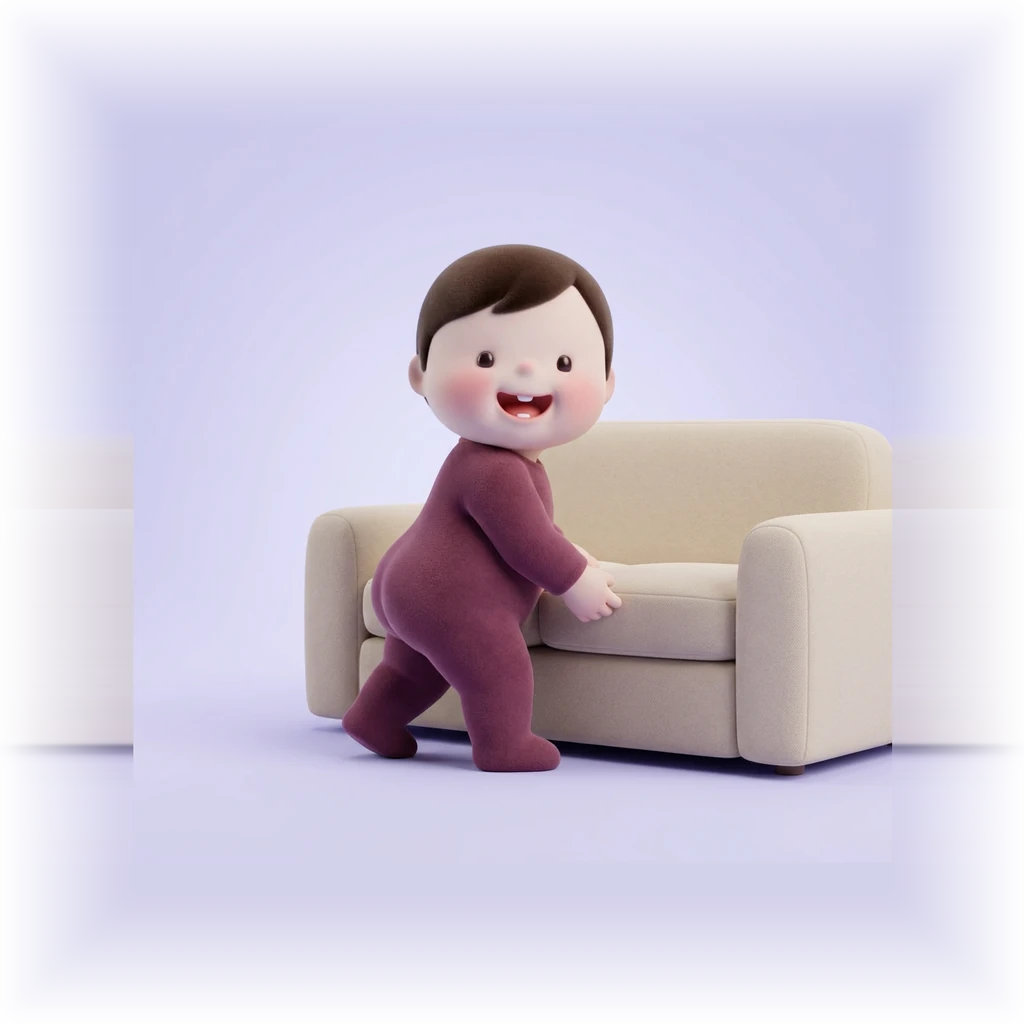
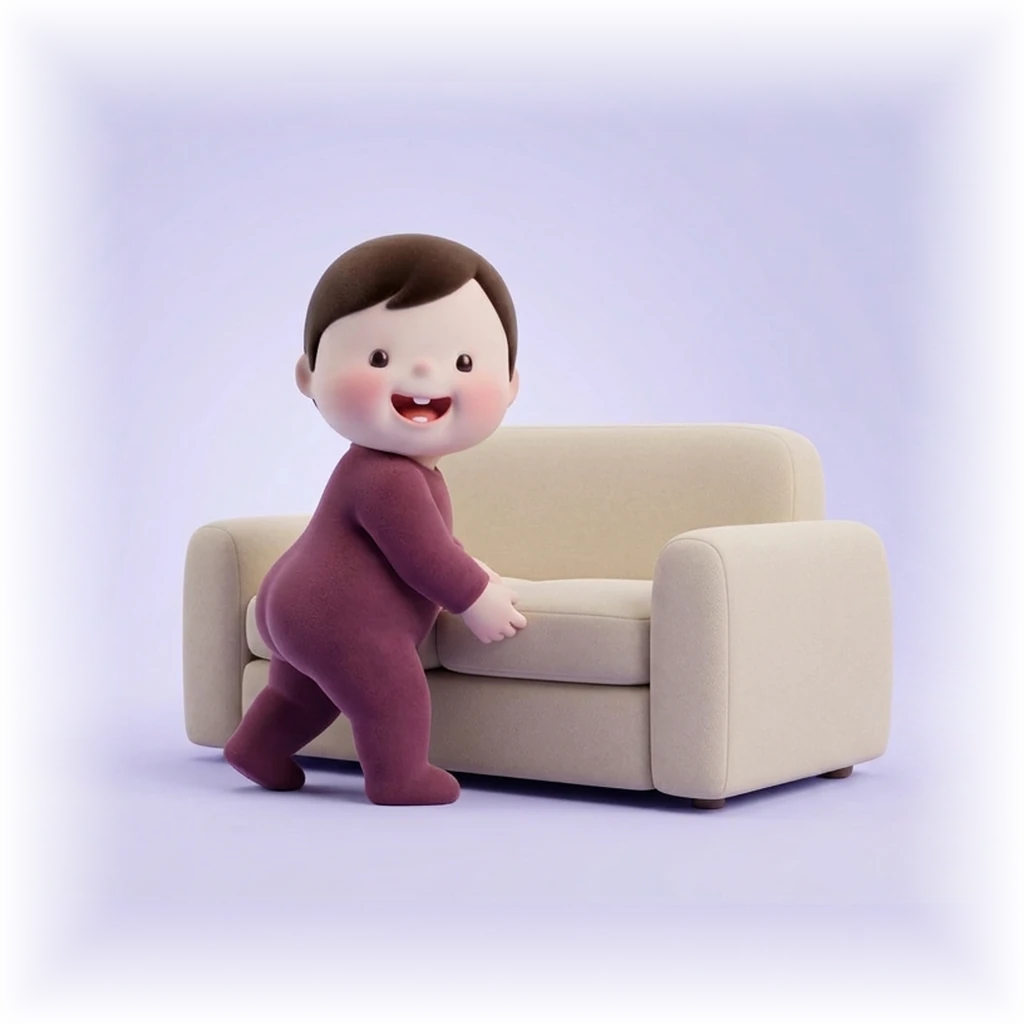
아기 기록표 갱신

Changed region(s): [[0.1562, 0.2188, 0.9688, 0.8125], [0.0312, 0.7188, 0.125, 0.75], [0.0938, 0.4688, 0.125, 0.5]]

diff --git a/index.html b/index.html
@@ -1723,7 +1723,7 @@ const BABY_STAGES = [
   { from: 8, to: 8, img: 'img/아기-단계-89.webp?r=2', bg: ['#f1e1bd', '#f4e6c1', '#f3e9c6'], lab: '#93700a', size: 290 },   // 데님 우주복 + 바닐라, 옆에서 본 기기 (10-08 사장님 89-1R A) — 카드색은 몸에 걸려 원본 가장자리에서 수동
   { from: 9, to: 9, img: 'img/아기-단계-m9.webp', bg: ['#e7cea3', '#ead6b5', '#ebddc4'], lab: '#a7721b', size: 290 },   // 페리윙클 인디고 + 허니, 짝짜꿍 (9-B)
   { from: 10, to: 10, img: 'img/아기-단계-1011.webp?r=2', bg: ['#c0d5ee', '#d2e6f8', '#d7e9fa'], lab: '#0159c1', size: 290 },   // 라즈베리 로즈 우주복 + 파우더 스카이, 스툴 잡고 서기 (10-09 사장님 1011-1R A) — 아래 띠는 몸에 걸려 원본 바닥색으로 수동
-  { from: 11, to: 11, img: 'img/아기-단계-m11.webp', bg: ['#c9c8e8', '#cfcdea', '#d5d3ec'], lab: '#5a4f72', size: 300 },   // 멀베리 플럼 + 라일락 스카이, 소파 잡고 옆걸음 (11-B)
+  { from: 11, to: 11, img: 'img/아기-단계-m11.webp?r=2', bg: ['#cccaea', '#d5d3ef', '#d3cfea'], lab: '#5a4f72', size: 300 },   // 멀베리 플럼 + 라일락 스카이, 소파 잡고 옆걸음 (11-D = 11-B 줌아웃, 10-22 잘린 소파 고침)
   { from: 12, to: 99, img: 'img/아기-단계-12.webp?r=2', bg: ['#ebc1e2', '#f3d2e6', '#fadfed'], lab: '#a91872', size: 290 },   // 맑은 틸 우주복 + 오키드 핑크, 케이크 향해 첫걸음 (10-09 사장님 12-2R B) — 위·아래 띠는 원본 가장자리에서 수동
 ];
 const curMonth = () => Math.max(0, Math.min(MONTHLY.length - 1, Math.floor(ageMon(dstr(new Date())))));
@@ -2120,7 +2120,7 @@ function fillSettings() {
   $('set-nick').textContent = me.nickname; $('set-members').textContent = Object.values(nickById).join(', ');
   for (const b of $('char-seg').children) b.classList.toggle('on', b.dataset.v === charOf(me.id));
 }
-const VER = 'v1.04 · 10-22';
+const VER = 'v1.05 · 10-22';
 $('ver').textContent = '기특일기 ' + VER;
 $('reload-ver').textContent = VER.split(' · ')[0];
 // ── 새 판 자동 반영: 홈 화면 앱은 화면을 이어 쓰므로, 앞으로 올 때마다 서버의 VER를 보고 다르면 새로고침
